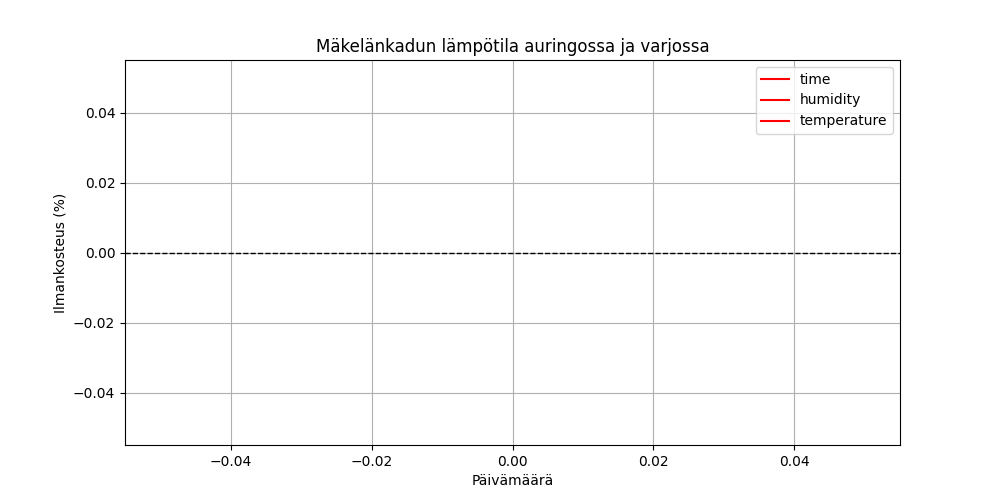
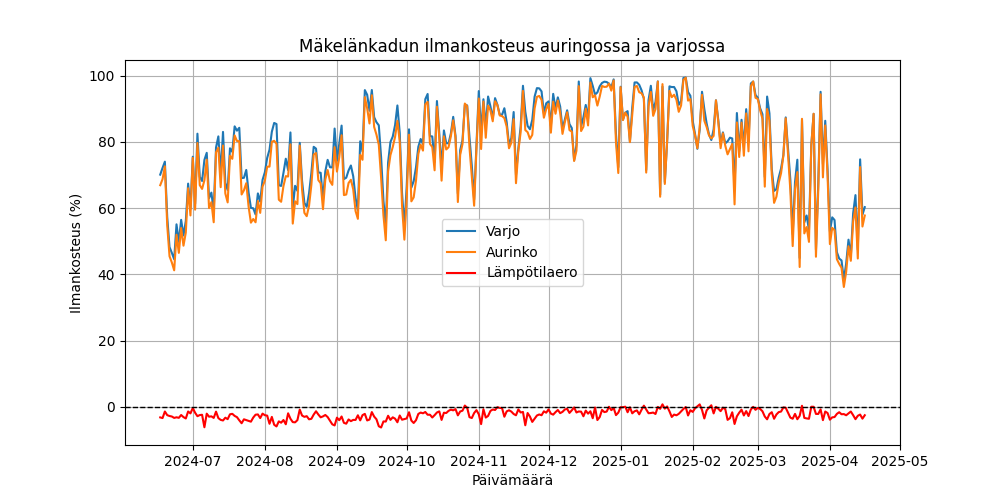
Add monthly humidity diff for Vallila aurinko and varjo

diff --git a/server/src/analysis/vallila/sun_shade_moist.py b/server/src/analysis/vallila/sun_shade_moist.py
@@ -1,20 +1,15 @@
 import asyncio
 
 import matplotlib.pyplot as plt
-from src.utils.analysis_utils import (
-    daily_avg_temp,
-    filter_daytime_data,
-    plot_daily_temp_avg,
-    plot_monthly_temp_diff,
-)
+import pandas as pd
+from src.utils.analysis_utils import filter_daytime_data
 from src.utils.filter_tag import filter_location_with_tag
 from src.utils.save_graph import save_graph
 
 
 def avg_moisture(df):
     df["date"] = df["time"].dt.date
-    df.groupby("date")["humidity"].mean()
-    return df
+    return df.groupby("date")["humidity"].mean()
 
 
 def avg_daily_temps_sun_moisture():
@@ -26,24 +21,65 @@ def avg_daily_temps_sun_moisture():
     dfV = filter_daytime_data(dfV)
     moistureV = avg_moisture(dfV)
 
-    plt1 = plot_daily_temp_avg(
-        moistureA,
-        moistureV,
-        title="Mäkelänkadun lämpötila auringossa ja varjossa",
-        df1_label="Aurinko",
-        df2_label="Varjo",
-        xlabel="Päivämäärä",
-        ylabel="Ilmankosteus (%)",
-        label="Ilmankosteus",
-    )
+    plt1 = plot_hum_temp_avg(moistureA, moistureV)
     save_graph("vallila_sun_shade_moisture_diff", plt1, folder="vallila")
 
-    plt2 = plot_monthly_temp_diff(
-        dfA, dfV, "Mäkelänkadun ilmankosteus auringossa ja varjossa", ylim=(0, 1)
-    )
+    plt2 = graph_monthly_avg(dfA, dfV)
     save_graph("vallila_sun_shade_monthly_moisture_diff", plt2, folder="vallila")
 
     return
+
+
+def plot_hum_temp_avg(
+    df1,
+    df2,
+):
+    plt.clf()
+
+    df2.plot(kind="line", label="Varjo", color="#1f77b4")
+    df1.plot(kind="line", label="Aurinko", figsize=(10, 5), color="#ff7f0e")
+
+    avg_diff = df1 - df2
+    avg_diff.plot(kind="line", label="Lämpötilaero", color="red", figsize=(10, 5))
+
+    plt.title("Mäkelänkadun ilmankosteus auringossa ja varjossa")
+    plt.axhline(y=0, color="black", linestyle="--", linewidth=1)
+    plt.xlabel("Päivämäärä")
+    plt.ylabel("Ilmankosteus (%)")
+    plt.legend()
+    plt.grid(True)
+
+    return plt
+
+
+def graph_monthly_avg(dfA, dfV):
+    plt.clf()
+
+    dfA["month"] = dfA.copy()["time"].dt.month
+    dfV["month"] = dfV.copy()["time"].dt.month
+
+    meanA = dfA.groupby("month")["humidity"].mean()
+    meanV = dfV.groupby("month")["humidity"].mean()
+
+    combined = pd.DataFrame({"Aurinko": meanA, "Varjo": meanV}).reset_index()
+
+    combined.plot(
+        x="month",
+        kind="bar",
+        figsize=(10, 6),
+        width=0.8,
+        color=["#ff7f0e", "#1f77b4"],
+    )
+
+    plt.title("Kuukausittainen ilmankosteuden keskiarvo")
+    plt.xlabel("Kuukausi")
+    plt.ylabel("Ilmankosteus (°%)")
+    plt.xticks(ticks=range(len(combined["month"])), labels=combined["month"])
+    plt.legend(title="Location")
+
+    save_graph("monthly_avg_temperature_grouped", plt, "all_locations")
+
+    return plt
 
 
 if __name__ == "__main__":

diff --git a/server/src/utils/analysis_utils.py b/server/src/utils/analysis_utils.py
@@ -22,7 +22,6 @@ def plot_daily_temp_avg(
     ylabel,
     line1_color=None,
     line2_color=None,
-    label=None,
 ):
     plt.clf()
 
@@ -34,12 +33,7 @@ def plot_daily_temp_avg(
     )
 
     avg_diff = df1 - df2
-    avg_diff.plot(
-        kind="line",
-        label=label if label else "Lämpötilaero",
-        color="red",
-        figsize=(10, 5),
-    )
+    avg_diff.plot(kind="line", label="Lämpötilaero", color="red", figsize=(10, 5))
 
     plt.title(title)
     plt.axhline(y=0, color="black", linestyle="--", linewidth=1)
